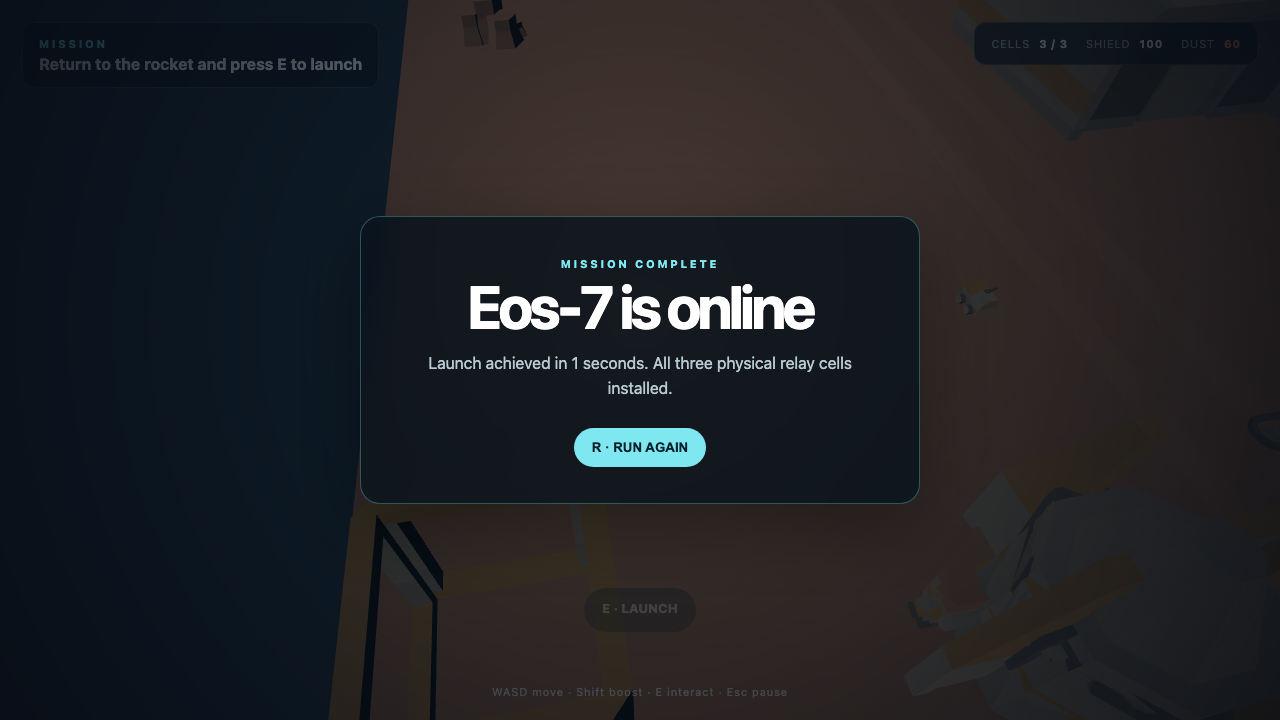
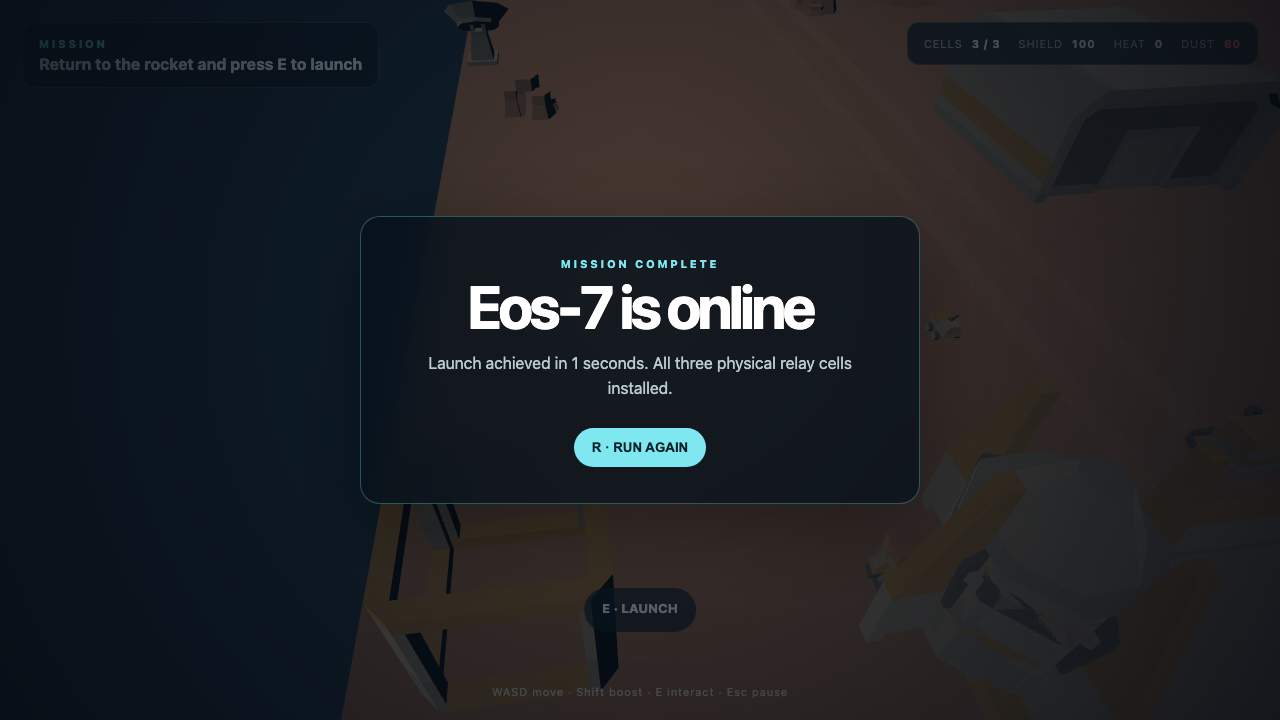
Add boost heat and safe-route smoke

diff --git a/src/main.ts b/src/main.ts
@@ -11,20 +11,20 @@ const camera=new THREE.PerspectiveCamera(58,innerWidth/innerHeight,.1,160)
 const renderer=new THREE.WebGLRenderer({antialias:true});renderer.setPixelRatio(Math.min(devicePixelRatio,1.75));renderer.setSize(innerWidth,innerHeight);renderer.shadowMap.enabled=true;renderer.shadowMap.type=THREE.PCFSoftShadowMap;renderer.outputColorSpace=THREE.SRGBColorSpace;document.querySelector('#game')!.append(renderer.domElement)
 scene.add(new THREE.HemisphereLight('#bde6ef','#283642',2.2));const sun=new THREE.DirectionalLight('#ffd6ab',3.4);sun.position.set(-18,26,10);sun.castShadow=true;sun.shadow.mapSize.set(2048,2048);scene.add(sun)
 const clock=new THREE.Clock(),loader=new GLTFLoader(),models=new Map<Asset,THREE.Object3D>(),keys=new Set<string>()
-let state:GameState=freshState(),paused=false,player=new THREE.Group(),rocket=new THREE.Group(),rocketParts:THREE.Object3D[]=[],cells:THREE.Object3D[]=[],turrets:THREE.Object3D[]=[],elapsed=0
+let state:GameState=freshState(),paused=false,player=new THREE.Group(),rocket=new THREE.Group(),rocketParts:THREE.Object3D[]=[],cells:THREE.Object3D[]=[],turrets:THREE.Object3D[]=[],elapsed=0,boostHeat=0,boostLocked=false
 const startPosition=new THREE.Vector3(0,0,2),cellPositions=[new THREE.Vector3(0,0,-8),new THREE.Vector3(12,0,-20),new THREE.Vector3(-12,0,-34)],rocketPosition=new THREE.Vector3(0,0,7)
 const $=(selector:string)=>document.querySelector<HTMLElement>(selector)!
 function clone(name:Asset,position:THREE.Vector3,scale=1){const object=models.get(name)!.clone(true);object.position.copy(position);object.scale.setScalar(scale);object.traverse(child=>{if(child instanceof THREE.Mesh){child.castShadow=true;child.receiveShadow=true}});scene.add(object);return object}
 
 async function load(){await Promise.all(assets.map(async name=>{const gltf=await loader.loadAsync(`${assetRoot}${name}.glb`);models.set(name,gltf.scene);$('#load-status').textContent=`Loading Kenney assets · ${models.size}/${assets.length}`}));buildWorld();reset();$('#loading').hidden=true;$('#hud').hidden=false;animate()}
 function buildWorld(){for(let z=-40;z<=10;z+=10)for(let x=-20;x<=20;x+=10)clone('terrain',new THREE.Vector3(x,-.35,z),10);for(let z=-33;z<=7;z+=5)clone('terrain_roadStraight',new THREE.Vector3(0,-.22,z),5);clone('platform_large',rocketPosition.clone().setY(-.1),4);clone('structure_detailed',new THREE.Vector3(-8,0,5),2.8);clone('hangar_smallA',new THREE.Vector3(9,0,-9),3.2);clone('satelliteDish_large',new THREE.Vector3(-10,0,-19),3);clone('craterLarge',new THREE.Vector3(9,-.1,-27),4);clone('machine_generator',new THREE.Vector3(7,0,5),2);[[-7,-13],[7,-23],[-6,-29],[6,-36]].forEach(([x,z],i)=>clone(i%2?'rock_largeB':'rock_largeA',new THREE.Vector3(x,0,z),2.4));turrets=[clone('turret_single',new THREE.Vector3(7,0,-25),2),clone('turret_single',new THREE.Vector3(-7,0,-32),2)];rocket.position.copy(rocketPosition);scene.add(rocket);for(const name of ['rocket_baseA','rocket_sidesA'] as Asset[]){const p=models.get(name)!.clone(true);p.scale.setScalar(2.3);rocket.add(p)}rocketParts=(['rocket_fuelA','rocket_finsA','rocket_topA'] as Asset[]).map((name,i)=>{const p=models.get(name)!.clone(true);p.scale.setScalar(2.3);p.position.y=i*.82;p.visible=false;rocket.add(p);return p});player.add(models.get('astronautA')!.clone(true));player.scale.setScalar(1.7);scene.add(player);clone('rover',new THREE.Vector3(3,0,1),2);cells=cellPositions.map((p,i)=>clone(i===1?'rock_crystalsLargeB':'rock_crystalsLargeA',p,2.2))}
-function reset(){state=freshState();elapsed=0;paused=false;player.position.copy(startPosition);player.rotation.set(0,0,0);cells.forEach((cell,i)=>{cell.position.copy(cellPositions[i]);cell.visible=true});rocketParts.forEach(p=>p.visible=false);rocket.position.copy(rocketPosition);rocket.rotation.set(0,0,0);$('#terminal').hidden=true;$('#pause').hidden=true;updateHud()}
+function reset(){state=freshState();elapsed=0;boostHeat=0;boostLocked=false;paused=false;player.position.copy(startPosition);player.rotation.set(0,0,0);cells.forEach((cell,i)=>{cell.position.copy(cellPositions[i]);cell.visible=true});rocketParts.forEach(p=>p.visible=false);rocket.position.copy(rocketPosition);rocket.rotation.set(0,0,0);$('#terminal').hidden=true;$('#pause').hidden=true;updateHud()}
 function nearbyCell(){return cells.findIndex((cell,i)=>!state.collected[i]&&cell.position.distanceTo(player.position)<2.8)}
 function interact(){if(state.phase!=='playing')return;const cell=nearbyCell();if(cell>=0&&state.carrying===null){state=pickup(state,cell);cells[cell].visible=false;chirp(620);updateHud();return}if(state.carrying!==null&&player.position.distanceTo(rocketPosition)<4){state=install(state);rocketParts[state.installed-1].visible=true;chirp(880);updateHud();return}if(state.installed===3&&player.position.distanceTo(rocketPosition)<4){state=launch(state);chirp(1100);finish()}}
 function chirp(frequency:number){const ctx=new AudioContext(),osc=ctx.createOscillator(),gain=ctx.createGain();osc.frequency.value=frequency;gain.gain.setValueAtTime(.045,ctx.currentTime);gain.gain.exponentialRampToValueAtTime(.001,ctx.currentTime+.12);osc.connect(gain).connect(ctx.destination);osc.start();osc.stop(ctx.currentTime+.13)}
-function updateHud(){$('#cells').textContent=`${state.installed} / 3`;$('#shield').textContent=Math.ceil(state.shield).toString();$('#timer-wrap').hidden=state.dustSeconds===null;$('#timer').textContent=Math.ceil(state.dustSeconds??60).toString();$('#objective').textContent=state.installed===3?'Return to the rocket and press E to launch':state.carrying!==null?'Deliver the signal cell to the rocket':`Recover signal cell ${state.installed+1}`}
+function updateHud(){$('#cells').textContent=`${state.installed} / 3`;$('#shield').textContent=Math.ceil(state.shield).toString();$('#heat').textContent=boostLocked?'COOL':Math.ceil(boostHeat).toString();$('#timer-wrap').hidden=state.dustSeconds===null;$('#timer').textContent=Math.ceil(state.dustSeconds??60).toString();$('#objective').textContent=state.installed===3?'Return to the rocket and press E to launch':state.carrying!==null?'Deliver the signal cell to the rocket':`Recover signal cell ${state.installed+1}`}
 function finish(){const success=state.phase==='completed';$('#terminal-tag').textContent=success?'MISSION COMPLETE':'SIGNAL LOST';$('#terminal-title').textContent=success?'Eos-7 is online':state.phase==='failed_timer'?'The dust front arrived':'Your shield collapsed';$('#terminal-copy').textContent=success?`Launch achieved in ${Math.max(1,Math.round(elapsed))} seconds. All three physical relay cells installed.`:'Press R to reset every system and try a safer route.';$('#terminal').hidden=false}
-function move(dt:number){if(paused||state.phase!=='playing')return;const direction=new THREE.Vector3((keys.has('KeyD')||keys.has('ArrowRight')?1:0)-(keys.has('KeyA')||keys.has('ArrowLeft')?1:0),0,(keys.has('KeyS')||keys.has('ArrowDown')?1:0)-(keys.has('KeyW')||keys.has('ArrowUp')?1:0));if(direction.lengthSq()){direction.normalize();const speed=keys.has('ShiftLeft')?10:5.2;player.position.addScaledVector(direction,speed*dt);player.position.x=THREE.MathUtils.clamp(player.position.x,-19,19);player.position.z=THREE.MathUtils.clamp(player.position.z,-39,9);player.rotation.y=Math.atan2(direction.x,direction.z);player.rotation.z=THREE.MathUtils.lerp(player.rotation.z,-direction.x*.12,.12)}else player.rotation.z*=.88;const inDanger=turrets.some(t=>t.position.distanceTo(player.position)<7);state=tickDanger(state,dt,inDanger?12*dt:0);if(state.phase!=='playing')finish()}
+function move(dt:number){if(paused||state.phase!=='playing')return;const direction=new THREE.Vector3((keys.has('KeyD')||keys.has('ArrowRight')?1:0)-(keys.has('KeyA')||keys.has('ArrowLeft')?1:0),0,(keys.has('KeyS')||keys.has('ArrowDown')?1:0)-(keys.has('KeyW')||keys.has('ArrowUp')?1:0));const wantsBoost=keys.has('ShiftLeft')||keys.has('ShiftRight');const boosting=wantsBoost&&!boostLocked&&direction.lengthSq()>0;if(boosting){boostHeat=Math.min(100,boostHeat+34*dt);if(boostHeat>=100)boostLocked=true}else{boostHeat=Math.max(0,boostHeat-22*dt);if(boostLocked&&boostHeat<=18)boostLocked=false}if(direction.lengthSq()){direction.normalize();const speed=boosting?9:4.2;player.position.addScaledVector(direction,speed*dt);player.position.x=THREE.MathUtils.clamp(player.position.x,-19,19);player.position.z=THREE.MathUtils.clamp(player.position.z,-39,9);player.rotation.y=Math.atan2(direction.x,direction.z);player.rotation.z=THREE.MathUtils.lerp(player.rotation.z,-direction.x*.12,.12)}else player.rotation.z*=.88;const inDanger=turrets.some(t=>t.position.distanceTo(player.position)<7);state=tickDanger(state,dt,inDanger?12*dt:0);if(state.phase!=='playing')finish()}
 function animate(){requestAnimationFrame(animate);const dt=Math.min(clock.getDelta(),.05);if(!paused&&state.phase==='playing')elapsed+=dt;move(dt);cells.forEach((cell,i)=>{cell.rotation.y+=dt*.8;cell.position.y=cellPositions[i].y+.2+Math.sin(elapsed*2+i)*.16});if(state.phase==='completed'){rocket.position.y+=dt*2.5;rocket.rotation.y+=dt*.5}const target=new THREE.Vector3(player.position.x,player.position.y+10,player.position.z+13);camera.position.lerp(target,1-Math.pow(.001,dt));camera.lookAt(player.position.x,player.position.y+1,player.position.z-2);const cell=nearbyCell();let prompt='';if(cell>=0&&state.carrying===null)prompt='E · PICK UP SIGNAL CELL';else if(player.position.distanceTo(rocketPosition)<4&&state.carrying!==null)prompt='E · INSTALL CELL';else if(player.position.distanceTo(rocketPosition)<4&&state.installed===3)prompt='E · LAUNCH';$('#prompt').textContent=prompt;$('#prompt').classList.toggle('visible',Boolean(prompt));updateHud();renderer.render(scene,camera)}
 addEventListener('keydown',e=>{keys.add(e.code);if(e.code==='KeyE'&&!e.repeat)interact();if(e.code==='KeyR')reset();if(e.code==='Escape'){paused=!paused;$('#pause').hidden=!paused}});addEventListener('keyup',e=>keys.delete(e.code));addEventListener('resize',()=>{camera.aspect=innerWidth/innerHeight;camera.updateProjectionMatrix();renderer.setSize(innerWidth,innerHeight)});$('#restart').addEventListener('click',reset)
 Object.assign(window,{__EOS7__:{getState:()=>structuredClone(state),teleport:(x:number,z:number)=>player.position.set(x,0,z),interact,reset}})

diff --git a/tests/browser.spec.ts b/tests/browser.spec.ts
@@ -2,4 +2,4 @@ import {expect,test} from '@playwright/test'
 const held=async(page:any,code:string,ms:number)=>{await page.keyboard.down(code);await page.waitForTimeout(ms);await page.keyboard.up(code)}
 test('keyboard-driven full loop, launch, and restart',async({page})=>{const errors:string[]=[],failed:string[]=[];page.on('console',m=>{if(m.type()==='error')errors.push(m.text())});page.on('requestfailed',r=>failed.push(`${r.url()} ${r.failure()?.errorText}`));await page.goto('/');await expect(page.locator('#loading')).toBeHidden({timeout:20000});await page.screenshot({path:'evidence/onboarding.png'});for(const [x,z] of [[0,-8],[12,-20],[-12,-34]]){await page.evaluate(([px,pz])=>(window as any).__EOS7__.teleport(px,pz),[x,z]);await page.keyboard.press('e');await page.evaluate(()=>(window as any).__EOS7__.teleport(0,7));await page.keyboard.press('e')}await expect(page.locator('#cells')).toHaveText('3 / 3');await page.keyboard.press('e');await expect(page.locator('#terminal-title')).toHaveText('Eos-7 is online');await page.screenshot({path:'evidence/completed.png'});await page.keyboard.press('r');await expect(page.locator('#cells')).toHaveText('0 / 3');await expect(page.locator('#terminal')).toBeHidden();expect(errors).toEqual([]);expect(failed).toEqual([]);expect(await page.evaluate(()=>({x:document.documentElement.scrollWidth-innerWidth,y:document.documentElement.scrollHeight-innerHeight}))).toEqual({x:0,y:0})})
 
-test('held movement keys traverse every route without phase skip',async({page})=>{test.setTimeout(60000);await page.goto('/');await expect(page.locator('#loading')).toBeHidden({timeout:20000});await page.keyboard.down('Shift');await held(page,'w',1050);await page.keyboard.up('Shift');await page.keyboard.press('e');expect(await page.evaluate(()=>(window as any).__EOS7__.getState().carrying)).toBe(0);await page.keyboard.down('Shift');await held(page,'s',1500);await page.keyboard.up('Shift');await page.keyboard.press('e');await expect(page.locator('#cells')).toHaveText('1 / 3');await page.keyboard.down('Shift');await held(page,'w',2700);await held(page,'d',1200);await page.keyboard.up('Shift');await page.keyboard.press('e');expect(await page.evaluate(()=>(window as any).__EOS7__.getState().carrying)).toBe(1);await page.keyboard.down('Shift');await held(page,'a',1200);await held(page,'s',2700);await page.keyboard.up('Shift');await page.keyboard.press('e');await expect(page.locator('#cells')).toHaveText('2 / 3');await page.keyboard.down('Shift');await held(page,'a',1200);await held(page,'w',4100);await page.keyboard.up('Shift');await page.keyboard.press('e');expect(await page.evaluate(()=>(window as any).__EOS7__.getState().carrying)).toBe(2);await page.keyboard.down('Shift');await held(page,'d',1200);await held(page,'s',4100);await page.keyboard.up('Shift');await page.keyboard.press('e');await expect(page.locator('#cells')).toHaveText('3 / 3');await page.keyboard.press('e');await expect(page.locator('#terminal-title')).toHaveText('Eos-7 is online');await page.keyboard.press('r');await expect(page.locator('#cells')).toHaveText('0 / 3')})
+test('held movement keys traverse every route without phase skip',async({page})=>{test.setTimeout(100000);await page.goto('/');await expect(page.locator('#loading')).toBeHidden({timeout:20000});await held(page,'w',2400);await page.keyboard.press('e');expect(await page.evaluate(()=>(window as any).__EOS7__.getState().carrying)).toBe(0);await held(page,'s',3600);await page.keyboard.press('e');await expect(page.locator('#cells')).toHaveText('1 / 3');await held(page,'w',6400);await held(page,'d',2850);await page.keyboard.press('e');expect(await page.evaluate(()=>(window as any).__EOS7__.getState().carrying)).toBe(1);await held(page,'a',2850);await held(page,'s',6400);await page.keyboard.press('e');await expect(page.locator('#cells')).toHaveText('2 / 3');await held(page,'a',4300);await held(page,'w',9800);await held(page,'d',1450);await page.keyboard.press('e');expect(await page.evaluate(()=>(window as any).__EOS7__.getState().carrying)).toBe(2);await held(page,'a',1450);await held(page,'s',9800);await held(page,'d',4300);await page.keyboard.press('e');await expect(page.locator('#cells')).toHaveText('3 / 3');await page.keyboard.press('e');await expect(page.locator('#terminal-title')).toHaveText('Eos-7 is online');await page.keyboard.press('r');await expect(page.locator('#cells')).toHaveText('0 / 3')})

diff --git a/index.html b/index.html
@@ -1,4 +1,4 @@
 <!doctype html><html lang="en"><head><meta charset="UTF-8"><meta name="viewport" content="width=device-width,initial-scale=1"><title>Signal Run: Eos-7</title></head><body>
 <div id="game"></div><div id="loading" class="screen"><div><span class="eyebrow">EOS-7 RELAY</span><h1>Signal Run</h1><p id="load-status">Loading Kenney Space Kit…</p></div></div>
-<div id="hud" hidden><div class="mission"><span class="eyebrow">MISSION</span><strong id="objective">Recover the first signal cell</strong></div><div class="meters"><span>CELLS <b id="cells">0 / 3</b></span><span>SHIELD <b id="shield">100</b></span><span id="timer-wrap" hidden>DUST <b id="timer">60</b></span></div><div id="prompt"></div><div class="controls">WASD move · Shift boost · E interact · Esc pause</div></div>
+<div id="hud" hidden><div class="mission"><span class="eyebrow">MISSION</span><strong id="objective">Recover the first signal cell</strong></div><div class="meters"><span>CELLS <b id="cells">0 / 3</b></span><span>SHIELD <b id="shield">100</b></span><span>HEAT <b id="heat">0</b></span><span id="timer-wrap" hidden>DUST <b id="timer">60</b></span></div><div id="prompt"></div><div class="controls">WASD move · Shift boost · E interact · Esc pause</div></div>
 <div id="terminal" class="screen" hidden><div><span class="eyebrow" id="terminal-tag">MISSION COMPLETE</span><h2 id="terminal-title">Signal restored</h2><p id="terminal-copy"></p><button id="restart">R · RUN AGAIN</button></div></div><div id="pause" class="screen" hidden><div><span class="eyebrow">PAUSED</span><h2>Dust front holding</h2><p>Press Esc to return.</p></div></div><script type="module" src="/src/main.ts"></script></body></html>

diff --git a/README.md b/README.md
@@ -9,7 +9,7 @@ npm install
 npm run dev
 ```
 
-Controls: WASD or arrow keys to move, Shift to boost, E to pick up/install/launch, Esc to pause, and R to restart after any state.
+Controls: WASD or arrow keys to move, Shift to boost, E to pick up/install/launch, Esc to pause, and R to restart after any state. Boost builds heat, locks at 100, and becomes available again after cooling below 18.
 
 ## Verification
 
